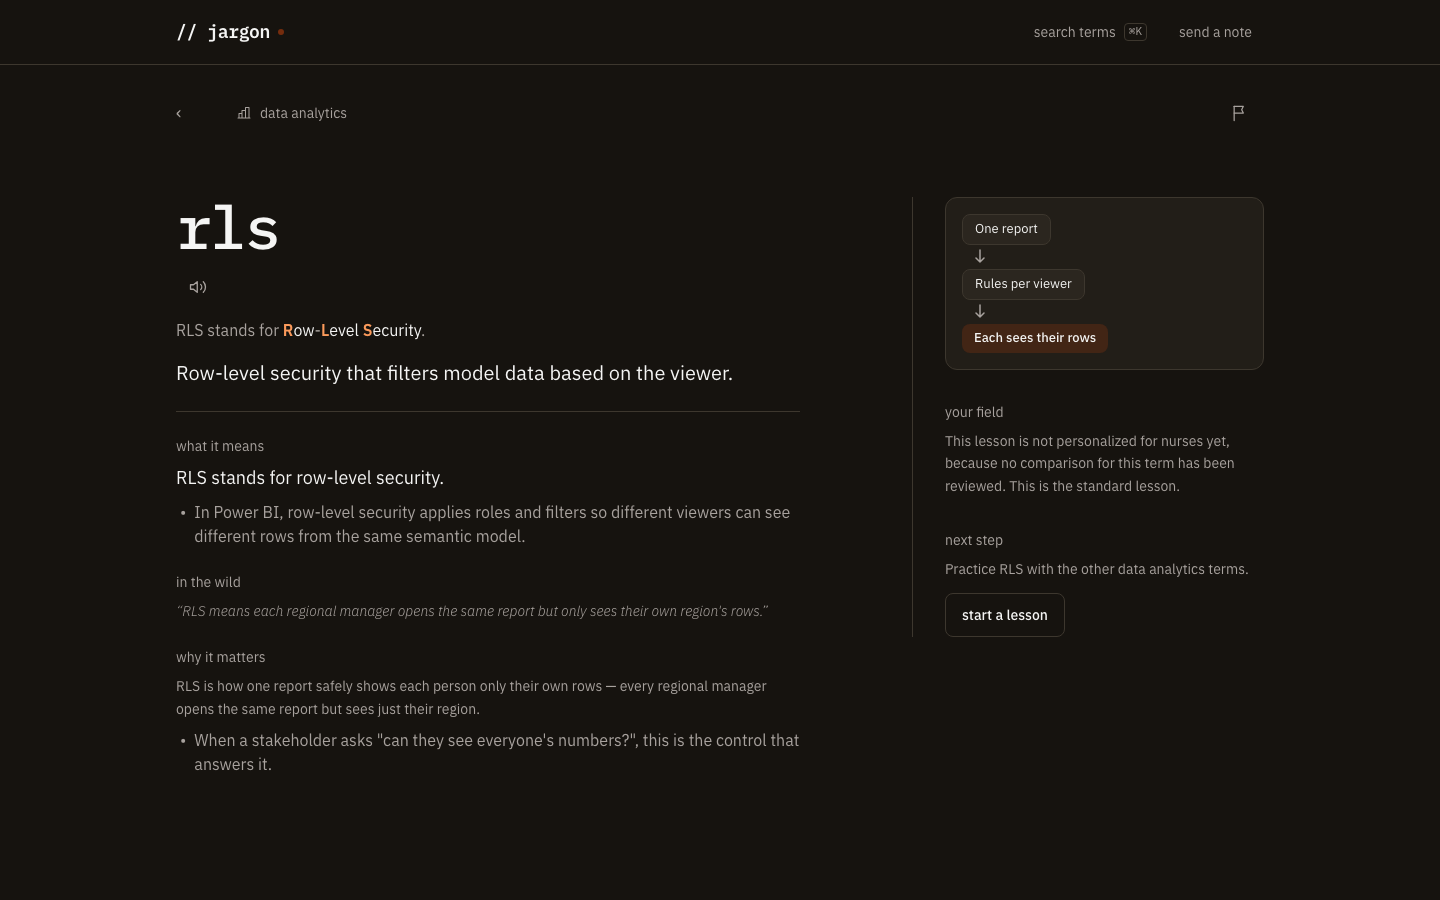
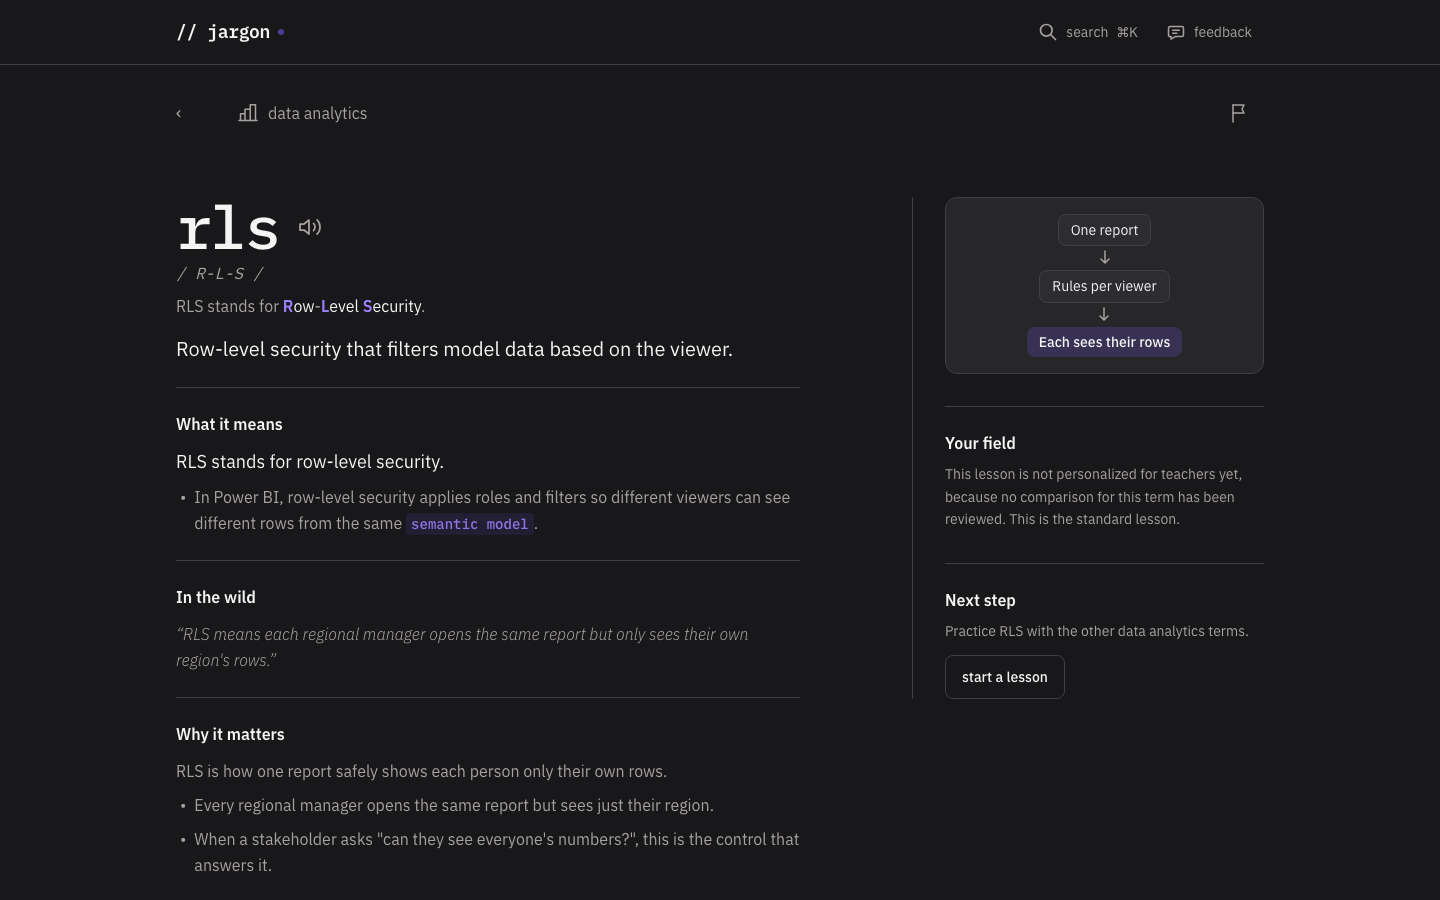
Document round 4 and replace the after screenshots
The README describes the sentence-case sections, the punctuation rule, the
14px minimum, the app bar and the violet accent. docs/migrations.md
records Kevin's approval of all five migrations.

The after captures are real dev server screens with synthetic data: the
term page for a teacher and the personalized JWT lesson for a nurse at
1920x1080, 1440x900, 1024x768 and 390x844, and the learn card and a quiz at
1440x900 and 390x844.

diff --git a/README.md b/README.md
@@ -63,13 +63,15 @@ flowchart TD
 
 ## Lesson style
 
-The logo, titles and term names stay lowercase. Lesson sentences display in sentence case with full punctuation, a definition reads as one lead sentence plus bullets, and seven terms get a small diagram drawn in code (`src/lib/lesson-text.ts`, `src/components/lesson-body.tsx`, `src/components/concept-illustration.tsx`). The stored canonical text is not rewritten. It is formatted for display, and the prompts ask the model to write the same way.
+The logo and term names stay lowercase. Section headings ("What it means", "In the wild", "Why it matters") use sentence case, with a soft divider between sections. Lesson sentences display in sentence case with full punctuation, a definition reads as one lead sentence plus bullets, and seven terms get a small diagram drawn in code (`src/lib/lesson-text.ts`, `src/components/lesson-body.tsx`, `src/components/concept-illustration.tsx`). The stored canonical text is not rewritten. It is formatted for display, and the prompts ask the model to write the same way.
 
-A diagram pill always has room around its text, and a flow sits on one line when it fits. When it does not fit, the flow becomes a vertical stack with down arrows instead of wrapping partway. A browser test checks every diagram at five screen sizes (`tests/e2e/lesson-layout.spec.ts`).
+Lesson text never shows an em dash or a semicolon, the canonical content and model output included. `plainPunctuation` turns a dash into a comma, a colon or a sentence break, and a semicolon into a sentence break, on the way to the screen. A test runs every seed lesson field and every curated scenario, transcript and conversation guide through it. No text on the lesson screens is smaller than 14px.
 
-When a term is an abbreviation, an initialism, an acronym or a clipped word, the line right under its title says what it stands for, before the definition: "RLS stands for Row-Level Security", with the letters marked, or "Short for repository". The expansions are data on each term (`supabase/term-expansions.json`, loaded by a migration), so lessons written by the model show the same line. Nine of the 147 entries are marked for a person to confirm.
+A diagram pill always has room around its text, and a flow sits on one line when it fits, centered in its box. When it does not fit, the flow becomes a centered vertical stack with down arrows instead of wrapping partway. A browser test checks every diagram at five screen sizes (`tests/e2e/lesson-layout.spec.ts`).
 
-On a laptop or desktop the term page is a reading column of about 65 characters beside a side panel with the diagram, the next step and related terms. Search and feedback sit in a top bar there instead of floating over the page. Phones keep one column. The look borrows from a field notebook: warm dark paper, a marker orange accent and a mono face for term names, since the app is about learning technical words through your own job.
+When a term is an abbreviation, an initialism, an acronym or a clipped word, the line right under its title says what it stands for, before the definition: "RLS stands for Row-Level Security", with the letters marked, or "Short for repository". The expansions are data on each term (`supabase/term-expansions.json`, loaded by a migration), so lessons written by the model show the same line. Kevin confirmed all 147 entries on 2026-11-03.
+
+On a laptop or desktop the term page is a reading column of about 65 characters beside a quiet side panel with the diagram, the note about your field, the next step and related terms. Phones keep one column. At every size, search and feedback sit in an app bar at the top of the page, so nothing floats over the content. The speaker button sits on the title's line. The accent is the violet, and the term name is set in a mono face.
 
 ## Evaluation
 

diff --git a/docs/migrations.md b/docs/migrations.md
@@ -1,6 +1,6 @@
 # Migrations added by the evaluation work
 
-Kevin approved the first four migrations on 2026-11-03. The fifth, term expansions, is new in this round and still needs his approval. They go to production only after the pull requests merge. Each one is safe to run more than once, and a SQL test runs each one twice against the real earlier migrations (`npm run test:sql`).
+Kevin approved all five migrations on 2026-11-03, the term expansions one after round 3. They go to production only after the pull requests merge. Each one is safe to run more than once, and a SQL test runs each one twice against the real earlier migrations (`npm run test:sql`).
 
 | Migration | What it does | Why it is safe to rerun | SQL test |
 | --- | --- | --- | --- |
